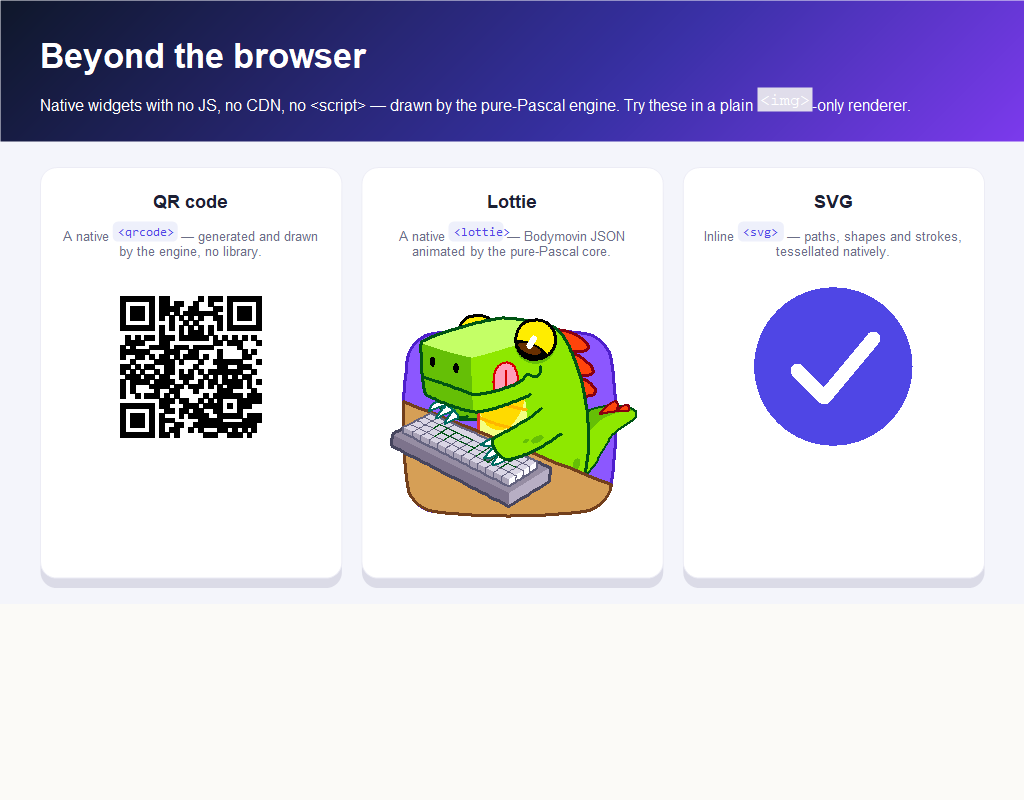
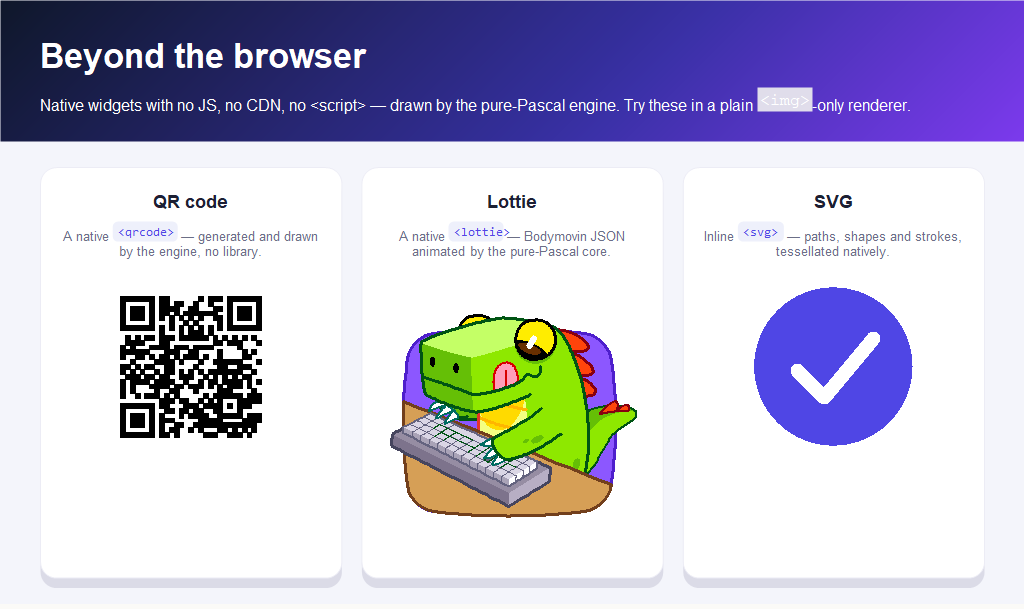
fix(win): background-size:cover + clip-path — reftests now 130/130
- DrawImage: draw from the explicit source rect with a TileFlipXY wrap mode.
  Upscaling a tiny bitmap (background-size:cover on a 4x4 image) was fading the
  bicubic-sampled edges to transparent, leaving a halo — bgimage-cover now 0%.
- Implement TWinCanvas.ClipPolygon (was an unoverridden base no-op, so clip-path
  did nothing on Windows): intersect a GDI polygon region into the current clip,
  undone by the surrounding SaveState/RestoreState like the Cocoa backend.
  css-clippath now passes. (Device-space region → clip-path under a transform is
  a known follow-up.)

Windows reftests: 128/130 → 130/130. README/Status/Roadmap updated; trimmed the
native-widgets image whitespace.

Changed region(s): [[0.0, 0.0312, 1.0, 0.8736], [0.0312, 0.936, 0.9688, 0.9672]]

diff --git a/README.md b/README.md
@@ -260,20 +260,19 @@ PPC_CONFIG_PATH=$HOME/fpc/etc $HOME/fpc/bin/fpc -Mdelphi -Twin64 -Px86_64 \
 
 ### What's next on Windows
 
-The GDI+ shell renders shapes, ClearType text, clipping, 2D transforms, the full
-compositing pipeline, **AA gradients (linear/radial), `<img>` decode/draw, and
-per-pixel `rgba()` alpha** — the [comparison above](#spot-the-browser) exercises
-all of them. Reftests: **128/130** pass. What's left:
+The GDI+ shell renders shapes, ClearType text, clipping, `clip-path`, 2D
+transforms, the full compositing pipeline, **AA gradients (linear/radial),
+`<img>` decode/draw, per-pixel `rgba()` alpha and `background-size: cover`** —
+the [comparison above](#spot-the-browser) exercises them. Reftests: **130/130**
+pass. What's left:
 
-1. **`background-size: cover`** (`bgimage-cover` reftest) — cover sizing/anchoring
-   of a background image isn't pixel-exact yet.
-2. **`clip-path` accuracy** (`css-clippath` reftest) — basic shapes tessellate
-   and clip, but don't yet pixel-match the reference.
-3. **Advanced blend modes** — `color-dodge`/`burn`, `hue`/`saturation`/`color`/
+1. **Advanced blend modes** — `color-dodge`/`burn`, `hue`/`saturation`/`color`/
    `luminosity` fall back to source-over in `BlendPixel` (multiply, screen,
    darken, lighten, overlay, difference are in).
-4. **HiDPI** — the shell runs at density 1; read the per-monitor DPI and
+2. **HiDPI** — the shell runs at density 1; read the per-monitor DPI and
    supersample the layers.
+3. **`clip-path` under a transform** — the GDI clip is device-space, so a
+   clip-path combined with rotate/scale isn't yet positioned correctly.
 
 See `src/Tina4ShellWin.pas` (canvas) and `examples/htmlviewer/htmlviewer_win.pas`
 (the Win32 host + message loop).
@@ -291,7 +290,7 @@ Each layer has a design doc:
 
 | Layer | Status | Doc |
 |---|---|---|
-| Renderer (DOM/CSS/layout) | rendering on macOS, Windows (128/130 reftests) and Linux; systematic conformance push | [CONFORMANCE.md](docs/CONFORMANCE.md), [CSS-PROPERTY-INDEX.md](docs/CSS-PROPERTY-INDEX.md), [HTML-ELEMENT-INDEX.md](docs/HTML-ELEMENT-INDEX.md) |
+| Renderer (DOM/CSS/layout) | rendering on macOS, Windows (130/130 reftests) and Linux; systematic conformance push | [CONFORMANCE.md](docs/CONFORMANCE.md), [CSS-PROPERTY-INDEX.md](docs/CSS-PROPERTY-INDEX.md), [HTML-ELEMENT-INDEX.md](docs/HTML-ELEMENT-INDEX.md) |
 | Platform shells | macOS + iOS (Objective-Pascal), Windows (GDI+), Linux (Xlib) and Android (JNI → Canvas) all render; desktop shells share offscreen filter/blend/mask/3D compositing. Android APKs build **natively from Windows** | [ARCHITECTURE.md](docs/ARCHITECTURE.md) |
 | Data layer (WS/SSE/API) | designed, ports of tina4delphi units | [ROADMAP-DATALAYER.md](docs/ROADMAP-DATALAYER.md) |
 | Frond template engine | designed, port of Tina4Frond.pas | [ROADMAP-FROND.md](docs/ROADMAP-FROND.md) |
@@ -308,8 +307,7 @@ tools/compare.sh bootstrap_test  # stack our render over Chrome for a page
 
 ## Roadmap
 
-1. **Conformance**: close the last Windows reftests (`background-size: cover`,
-   `clip-path`), add the advanced blend modes and HiDPI, then keep pushing
+1. **Conformance**: add the advanced blend modes and HiDPI (last Windows gaps), then keep pushing
    flexbox, positioning, list markers and table spans.
 2. **Linux shell parity**: images + the filter/blend/mask/3D compositor (the
    desktop-class pieces the X11 shell doesn't share yet).
